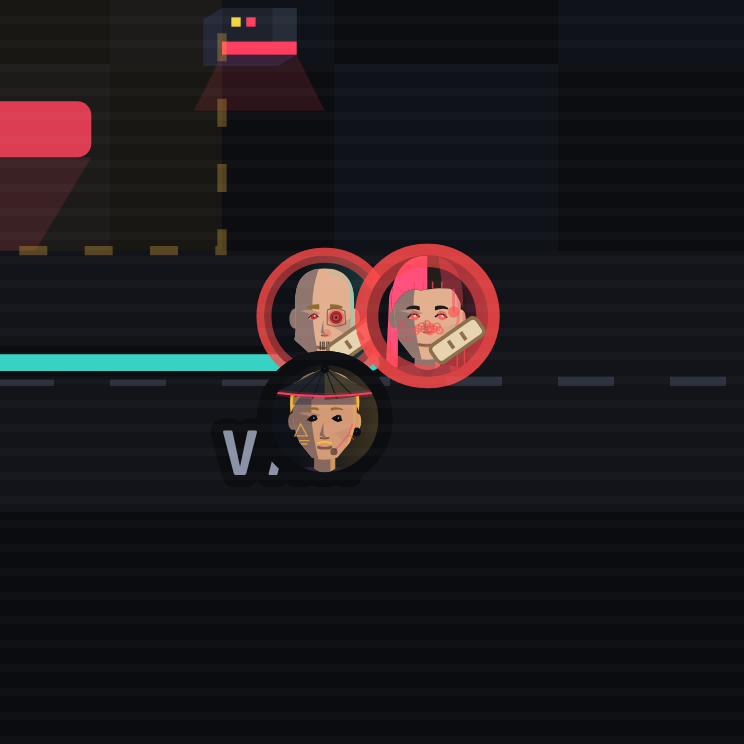
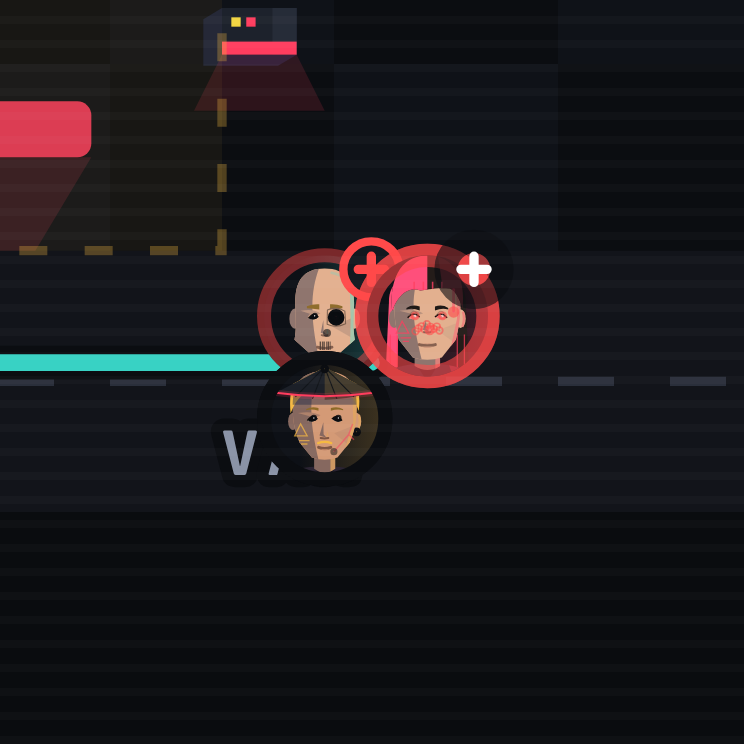
Show an injury as a status badge on the token's top right

diff --git a/src/ui/siteplan.js b/src/ui/siteplan.js
@@ -158,15 +158,15 @@ export function bindSitePlan(svg, { team: inside, overwatch = null, wheels = nul
   const wait = (ms) => later(ms * speed());
   const slot = (i, pt) => [pt[0] + (i % 2) * 11 - 5, pt[1] + Math.floor(i / 2) * 11 - 5];
   const tok = (id) => tokens.querySelector(`[data-op="${CSS.escape(id)}"]`);
-  // A wound shows as a faint red ring and a small plaster on the face (never a bright ring: it read as a power-up).
+  // A wound is a status badge on the token's top right, clear of the face: a small disc with a cross (never a bright ring:
+  // that read as a power-up). A serious injury also gets the red ring (`is-down`).
   const markHurt = (t, severity) => {
     if (!t) return;
     t.classList.add(severity === 'serious' ? 'is-down' : 'is-hit');
-    if (!t.querySelector('.sp-plaster')) {
-      const p = el('g', { class: 'sp-plaster', transform: 'translate(3.2 2.6) rotate(-35)' });
-      p.append(el('rect', { x: -3, y: -1.1, width: 6, height: 2.2, rx: 0.6 }), el('path', { d: 'M-0.8 -0.5v1M0.8 -0.5v1' }));
-      t.append(p);
-    }
+    t.querySelector('.sp-status')?.remove();
+    const g = el('g', { class: `sp-status ${severity === 'serious' ? 'is-serious' : ''}`, transform: 'translate(5 -5)' });
+    g.append(el('circle', { r: 3 }), el('path', { d: 'M-1.4 0h2.8M0 -1.4v2.8' }));
+    t.append(g);
   };
   const addToken = (op, at) => {
     const g = el('g', { class: 'sp-token', 'data-op': op.id });

diff --git a/src/ui/styles.css b/src/ui/styles.css
@@ -1097,8 +1097,11 @@ h2::after { content: ''; flex: 1; height: 1px; background: linear-gradient(90deg
 .sp-token, .sp-enemy, .sp-npc, .sp-cam, .sp-drone { transition: transform calc(0.45s * var(--speed, 1)) ease-in-out, opacity 0.5s; }
 .sp-token circle { stroke: #0b0d11; stroke-width: 1.5; }
 .sp-token text, .sp-enemy text, .sp-npc text, .sp-cam text { fill: #0b0d11; font-weight: 700; font-size: 6.5px; text-anchor: middle; dominant-baseline: central; }
-.sp-token.is-hit circle { stroke: var(--danger); stroke-width: 1.6; stroke-opacity: 0.55; }
-.sp-plaster rect { fill: #e8d3b0; stroke: #8a6f4a; stroke-width: 0.4; } .sp-plaster path { fill: none; stroke: #8a6f4a; stroke-width: 0.4; }
+.sp-token.is-hit .sp-face__ring { stroke: var(--danger); stroke-opacity: 0.45; }
+.sp-token .sp-status circle { fill: #14181f; stroke: var(--danger); stroke-width: 0.9; }
+.sp-token .sp-status path { fill: none; stroke: var(--danger); stroke-width: 1; stroke-linecap: round; }
+.sp-token .sp-status.is-serious circle { fill: var(--danger); stroke: #0b0d11; }
+.sp-token .sp-status.is-serious path { stroke: #fff; }
 .sp-token.is-down circle { stroke: var(--danger); stroke-width: 2.5; opacity: 0.6; }
 .sp-token.is-cornered circle { stroke: var(--danger); stroke-width: 2; animation: sp-blink 0.5s steps(2) infinite; }
 .sp-enemy circle { fill: var(--danger); stroke: #0b0d11; stroke-width: 1.5; } .sp-enemy--patrol circle { fill: #c9772f; }

diff --git a/docs/design/2026-11.md b/docs/design/2026-11.md
@@ -5,7 +5,7 @@ Part of the decision log kept in `DESIGN.md`. Supersede with a new row at the to
 | Date | Decision | Why | Rejected alternatives |
 | --- | --- | --- | --- |
 | 2026-11-18 | **The bunk room's plain-look fittings are three cots drawn like the hall's beds, not blank slabs.** | The owner: the room looked odd next to the beds; the slabs were far bigger than a bed and had no pillow or blanket. | Shrinking the slabs only (still unreadable as beds). |
-| 2026-11-18 | **A light injury on a job-map token is a faint red ring and a plaster, not a yellow ring.** Glowing chrome (eyes, ports) stays: it shows neural load (`ART.md`). | Sodium yellow is the game's "your call" colour and the ring read as a bonus. | A bare red ring (still no cue for what it is); removing the chrome glow (it is the load readout). |
+| 2026-11-18 | **An injury on a job-map token is a status badge on its top right (outlined red cross: light; solid red disc, white cross: serious), not a yellow ring.** Glowing chrome (eyes, ports) stays: it shows neural load (`ART.md`). | Sodium yellow is the game's "your call" colour and the ring read as a bonus. | A bare red ring (no cue for what it is); a plaster on the face (the owner: it looked bad, and it covered the face); removing the chrome glow (it is the load readout). |
 | 2026-11-18 | **The purity pass: `createNewGame` defaults to a fixed seed (1) instead of the clock, and the game passes the seed (`ui/seed.js freshSeed()`: the clock, or `?seed=` in the dev build for repeatable screenshots). `tests/purity.test.js` reads `src` as code (comments and string text blanked) and fails on a clock, `Math.random`, storage or the DOM in `src/core`/`src/data`, storage outside `save/save.js`, a `saveGame` outside `setState`, or a write into `state` in `src/ui`.** Review item 12 was already fixed (checked by a sweep); item 13 fixed here. | CLAUDE.md: core is logic only, randomness through `core/rng.js`; the clock default was the one exception, and it made screenshots unrepeatable. | A required seed (option (a) in the brief): five test calls make a game without one, and a fixed default keeps them and any script deterministic without touching tests. A clock patched inside the screenshot page (would also move the game's own timers). |
 | 2026-11-18 | **Review item 7: no patch-instead-of-replace renderer for now. Measured at 4x (`drafts/NOTE-render-cost-2026-11-18.md`), a tab tap costs 30-60 ms warm except Today (90-130 ms), and a save 6-12 ms; the backup's day and seed already come from a meta key. Next step, if any: profile the Today tab's render.** Also dropped in the speed pass, measured: lazy `say` arguments (about 3%, in the noise) and `Object.keys` in the copy (no change). | The brief asked for numbers before any rewrite; one slow tab points at that screen, not at `render()`. | A patching renderer now (large, for 30-60 ms on most tabs). |
 | 2026-11-18 | **The quick copy moves to `core/copy.js` (`copier(x, kept)`) and engine 1's odds use it too, sharing the battle's spots and each runner's stats (`battle.js BATTLE_KEPT`, guarded by the same freeze test).** Measured note for the speed pass: the board benchmark in the brief compares each version on its own campaigns, and main's 30-week campaigns offer heavier jobs (kidnap, wrong_horse, penthouse at 300 to 450 ms each, even on the code before #194). On the same states the code before #194 gives median 69 / p90 442 ms and this pass 40 / 340; on the old code's own states, 42 / 195 against 35 / 139. | Engine 1's odds cloned each battle whole, with its site's spots. | A copy specialised to the battle's shape (faster, but a second copy to keep in step with the state). |

diff --git a/docs/screenshots/README.md b/docs/screenshots/README.md
@@ -23,7 +23,7 @@ Then add a row to the top of the table below and commit the folder with the chan
 | Date | Version | Commit | What's new on screen | Folder |
 | --- | --- | --- | --- | --- |
 | 2026-11-18 | The bunk room matches the beds | (this change) | Design-session capture (`scripts/capture-bunk-room.mjs`): Old Town's build screen with a bunk room built, in the plain look (`plain-plan.png`, `plain-screen.png`) and the Hall art look (`hall-art-plan.png`, `hall-art-screen.png`). The room's three bunks are drawn like the hall's beds (pillow, blanket, ladder rung) instead of blank slabs. | `2026-11-18-bunk-room/` |
-| 2026-11-18 | A wound is a plaster | (this change) | The standard set. New on screen: a runner with a light injury on a job map gets a faint red ring and a small plaster on the face instead of a bright yellow ring. The standard run has no injury (`14-watch-2.png` reads "Hurt 0"), so the wounded tokens are in their own close-up (`wounds-closeup.png`, from `scripts/preview-wounds.mjs`): a light injury on the left, a serious one on the right. | `2026-11-18-wound-plaster/` |
+| 2026-11-18 | A wound is a status badge | (this change) | The standard set. New on screen: a runner with an injury on a job map gets a small badge on the token's top right (a red cross) instead of a bright yellow ring. The standard run has no injury (`14-watch-2.png` reads "Hurt 0"), so the wounded tokens are in their own close-up (`wounds-closeup.png`, from `scripts/preview-wounds.mjs`): a light injury on the left (outlined cross), a serious one on the right (solid, with the ring). | `2026-11-18-wound-plaster/` |
 | 2026-11-17 | The visual pass | (this change) | Design-session capture (`scripts/preview-livebattle.mjs --effect`): the Contagion arc leaping to a new host (`01`) and the host's ring flaring as it lands (`02`), the infection tick's flaring ring (`03`), the shield dome (`04`), the jam's broken signal arcs to the callers (`05`), and the way out's "The alarm is up" caption with the red map edge (`06`). Cropped to the map, 2x. | `2026-11-17-visual-pass/` |
 | 2026-11-17 | The medic's aura | (this change) | Design-session capture (`scripts/preview-livebattle.mjs --aura`): the green glow round the medic as the aura starts (`01-glow.png`) and the heal landing with a floating "+" (`02-heal-lands.png`), cropped to the map. The glow grows and flashes twice, an orb crosses to the patient, the pip fills; here the medic heals themself, so nothing crosses. | `2026-11-17-medic-aura` |
 | 2026-11-17 | The way out of a hack | (this change) | Design-session capture (`scripts/capture-way-out.mjs`): a data_pull round after the work is done (`01-way-out-round.png`): the goal line reads "Fighting out · 3 still standing", the alarm's arrivals are coming in, and everyone including the tech is ordered to attack. | `2026-11-17-way-out` |

diff --git a/docs/changelog/2026-11.md b/docs/changelog/2026-11.md
@@ -6,7 +6,7 @@ Part of the changelog indexed in `CHANGELOG.md`. Newest first; add new entries a
 - On the hall build plan (plain look) the bunk room was three big blank grey slabs beside the small cots. It now holds three cots in the beds' own look (pillow, blanket, frame), a little taller than a bed for the bunk above (`data/hallBuild.js bunkFits`). The Hall art look's bunk room (`ui/hallsprites.js`) had a pillow as a tall strip down each bunk; its bunks are now drawn in the bed's proportions, standing against the wall: pillow at the head, blue blanket, a ladder rung at the foot.
 
 ## 2026-11-18 · A wound no longer looks like a power-up
-- On a job map, a runner who took a light injury had a bright sodium-yellow ring, which read as a bonus. It is now a faint red ring plus a small plaster on the face (`siteplan.js markHurt`). A serious injury is unchanged (red, faded).
+- On a job map, a runner who took a light injury had a bright sodium-yellow ring, which read as a bonus. It is now a small status badge on the token's top right (`siteplan.js markHurt`): an outlined red cross for a light injury, a solid red disc with a white cross for a serious one, which also keeps its red ring. A first try, a plaster on the face, covered the face and was dropped.
 
 ## 2026-11-18 · The core never reads the clock (purity pass)
 - A new game's seed now comes from the game's boot and its New game button (`ui/seed.js`), not from inside the game logic. Nothing changes in play: a new game still gets a fresh seed from the clock, and saves are untouched (the seed was always stored in the save).
